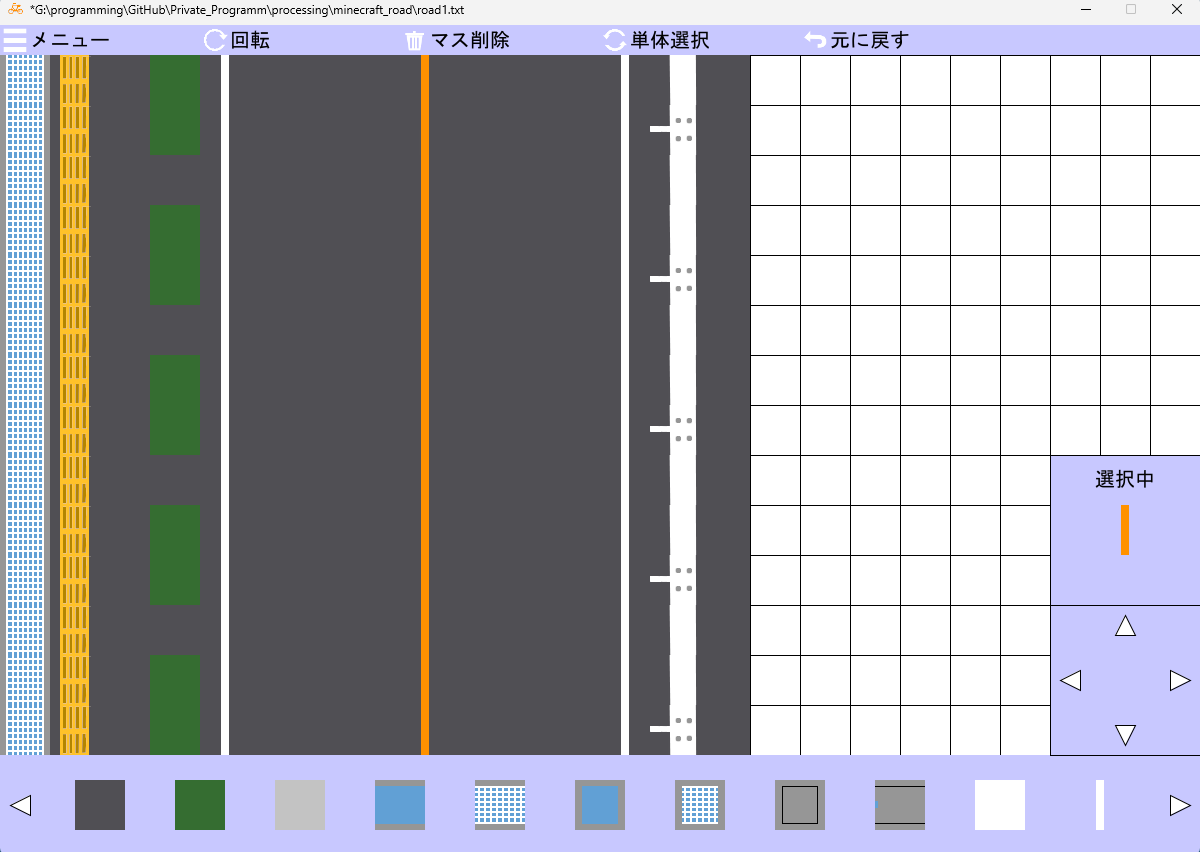
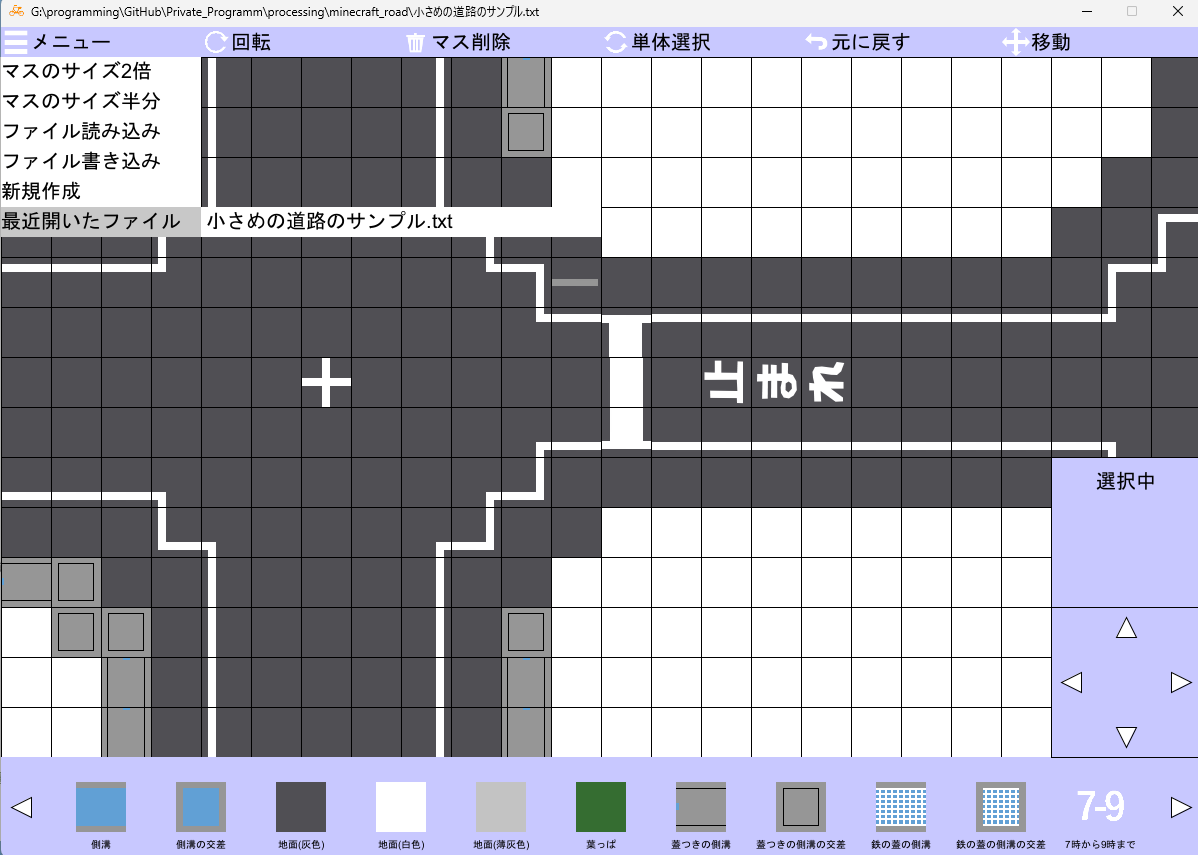
minecraft_road_1.1

diff --git a/potatogame/minecraft_road.html b/potatogame/minecraft_road.html
@@ -46,8 +46,11 @@
     <h1 class="spacer">aaa</h1>
     <h1 class="title">Asphalt Modの道路設計ツール</h1>
     <section class="play">
-        <p>ページ → <a href="https://www.dropbox.com/scl/fi/a9k2qfysyfcjaj3m08zs2/minecraft_road.zip?rlkey=9ylwq48v4fvh8ve1r4vgo4oip&dl=0" target="_blank">設計図ツール(Dropbox)</a></p>
-        <p>サンプルデータ → <a href="https://www.dropbox.com/scl/fi/qz640nyder3m6e6f9agmm/sample.txt?rlkey=hld61qt0ifvap6aqk5dhcy2nk&dl=0" target="_blank">Sample.txt(Dropbox)</a></p>
+        <p>設計図ツール(最新) → <a href="https://drive.google.com/file/d/1gpK3Li5sTdrmi7L6aSraILuxynRvwJ2n/view?usp=sharing" target="_blank">1.1(Googleドライブ)</a></p>
+        <p>設計図ツール(旧) → <a href="https://www.dropbox.com/scl/fi/a9k2qfysyfcjaj3m08zs2/minecraft_road.zip?rlkey=9ylwq48v4fvh8ve1r4vgo4oip&dl=0" target="_blank">1.0(Dropbox)</a></p>
+        <p>サンプルデータ※1.0 → <a href="https://www.dropbox.com/scl/fi/qz640nyder3m6e6f9agmm/sample.txt?rlkey=hld61qt0ifvap6aqk5dhcy2nk&dl=0" target="_blank">Sample.txt(Dropbox)</a></p>
+        <p>MoreLinePack → <a href="https://drive.google.com/file/d/1fc0sYpl9OhYqjNY4d-WGstoQ6Vp6oQJx/view?usp=sharing" target="_blank">1.0.0(Googleドライブ)</a></p>
+        <p>データ変換ツール → <a href="https://drive.google.com/file/d/1JieIYhwzIEvM313uePQDODUh1jT11Qht/view?usp=sharing" target="_blank">1.0→1.1</a></p>
     </section>
     <h2>概要</h2>
     <section class="sec">
@@ -63,12 +66,41 @@
             ということで2回目書くの面倒でREADMEをほとんどコピペした説明でした()
         </p>
     </section>
+    <h2>MoreLinePack</h2>
+    <section class="sec">
+        <img src="minecraft_road2.png" class="screenshot">
+        <p class="text">
+            AsphaltMod用の白線拡張パック！<br>
+            導入方法はAsphaltModの公式HPにある通りmods/asphaltmod/line/に入れるだけ<br>
+            サンプル画像に乗ってないものやそれぞれの線の黄色版も用意してるから入れてみてね！<br>
+            設計図ツールには標準で入れてるよ～
+        </p>
+    </section>
+    <h2>アップデート</h2>
+    <section class="sec">
+        <p class="text">
+            1.0<br>
+            初期(バージョン表記なし)<br>
+            <br>
+            1.1<br>
+            ※1.1で1.0のセーブデータを読み込もうとするとバグります(ファイル名を変えたので)<br>
+            1.0のデータを1.1のデータに変換するツールを公開しておきました、文字コードの変換もできます(Processingはutf-8じゃないと開けないっぽい)<br>
+            ・範囲選択を行うときに重くなるバグを修正(修正後でもマウスをめちゃくちゃに動かせば重いと思うけど普通に選択したとき)<br>
+            ・大きさの異なる画像を追加したとき、一覧でそのままのサイズで表示されるバグを修正<br>
+            ・MoreLinePack(1.0.0)の画像を追加<br>
+            ・マス目を画像より前に表示するように変更(この方が何マスで作ればいいかわかりやすいと思った)<br>
+            ・下部の一覧にファイル名を表示するように変更(+ファイル名を日本語に変更)<br>
+            ・ファイル読み込み時に座標をリセット(書くまでもないか?)<br>
+            ・メニューに最近開いたファイルの項目を追加<br>
+            ・ファイル入力時のバリデーションの追加(形式に則らない行を無視)<br>
+            ・「移動」機能の追加(移動元と移動先の範囲が被るとバグります)<br>
+        </p>
+    </section>
     <h2>技術的なこと</h2>
     <section class="sec">
         <p class="text">
-            ソースコードとかは僕のGitHubレポジトリの<a href="https://github.com/PotatoTimeKun/programming/tree/main/Processing/minecraft_road"
-                target="_blank">ここ</a>にあるよ<br>
-            サンプルは<a href="https://github.com/PotatoTimeKun/programming/blob/main/Processing/minecraft_road/sample.txt" target="_blank">こんな感じ</a><br>
+            ソースコードはツールと同封してあります<br>
+            まあGitHubにもあるけど、基本最新のだから同封してあるのを見た方がいいと思う
         </p>
     </section>
     <a href="https://potatotimekun.github.io/web">ホームページに戻る</a>

diff --git a/index.html b/index.html
@@ -152,8 +152,8 @@
     </section>
     <h1 id="g">自作ゲーム紹介</h1>
     <section id="game">
-        <a href="potatogame/minecraft_road.html" target="_blank">AsphaltMod用設計図ツール</a>
-        <p> windows用ゲームツール(Processing製)</p>
+        <a href="potatogame/minecraft_road.html" target="_blank">AsphaltMod用設計図ツール/MoreLinePack</a>
+        <p> windows用ツール(Processing製)/AsphaltMod用拡張パック</p>
         <a href="potatogame/if.html" target="_blank">IF?</a>
         <p> windows用ゲーム(Python製)</p>
         <a href="potatogame/suika.html" target="_blank">アンコリーノゲーム</a>
